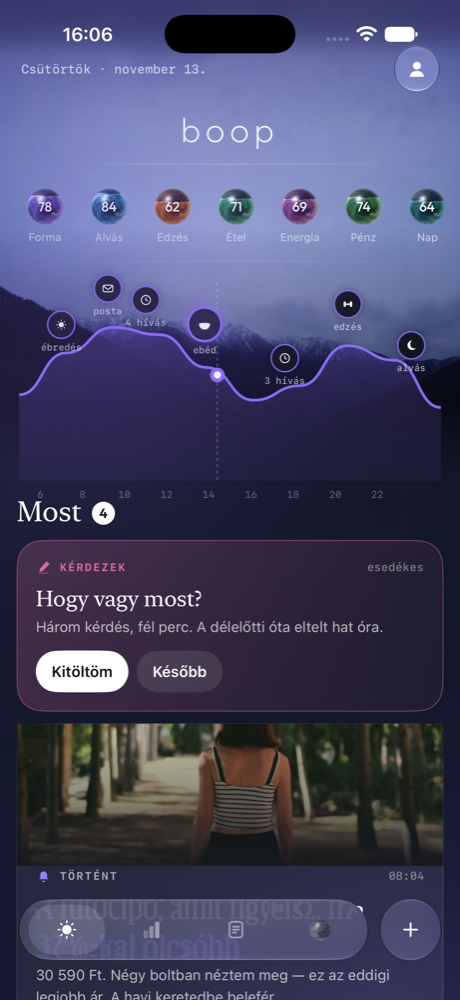
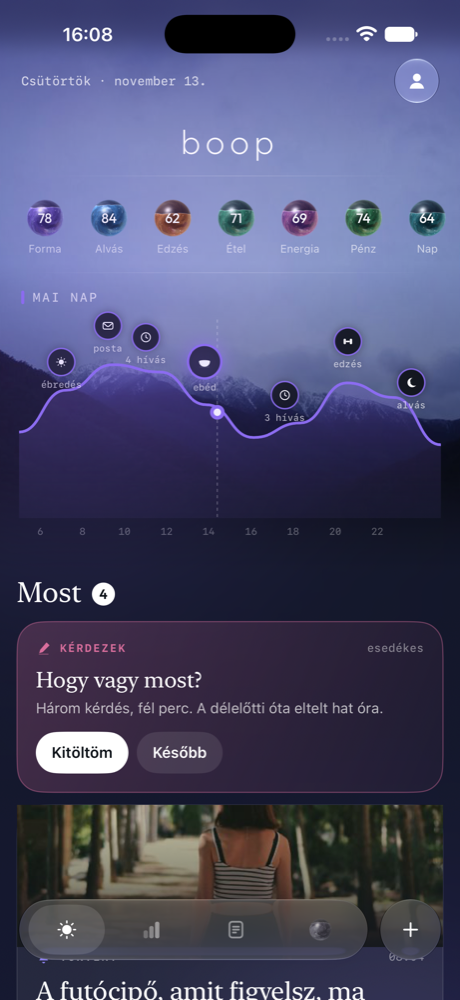
docs(boop-life): MAI NAP label over the curve, and room so Most clears the hours (mezo-r36n9.33)

diff --git a/docs/design_2.0/prototypes/boop-ios-spike/BoopSpike/EletMa.swift b/docs/design_2.0/prototypes/boop-ios-spike/BoopSpike/EletMa.swift
@@ -119,7 +119,7 @@ struct EletMa: View {
             GeometryReader { geo in
                 ScrollView {
                     VStack(spacing: 0) {
-                        hero(height: geo.size.height * 0.475 + geo.safeAreaInsets.top)
+                        hero(height: geo.size.height * 0.565 + geo.safeAreaInsets.top)
                         VStack(alignment: .leading, spacing: 22) {
                             feed
                             folds
@@ -203,9 +203,17 @@ struct EletMa: View {
                     .padding(.horizontal, 30)
                     .padding(.top, 16)
 
+                HStack(spacing: 8) {
+                    Capsule().fill(day.glow).frame(width: 3, height: 13)
+                    Text("MAI NAP").font(AuraFont.mono(12)).tracking(1.6)
+                        .foregroundStyle(.white.opacity(0.75))
+                    Spacer()
+                }
+                .padding(.horizontal, 20).padding(.top, 16)
+
                 EDayCurve(values: EDay.curve, labels: EDay.hours, events: EDay.events,
                           hue: day.glow, now: 0.47, height: 220)
-                    .padding(.horizontal, 18).padding(.top, 12)
+                    .padding(.horizontal, 18).padding(.top, 6)
 
 
                 Spacer(minLength: 0)
